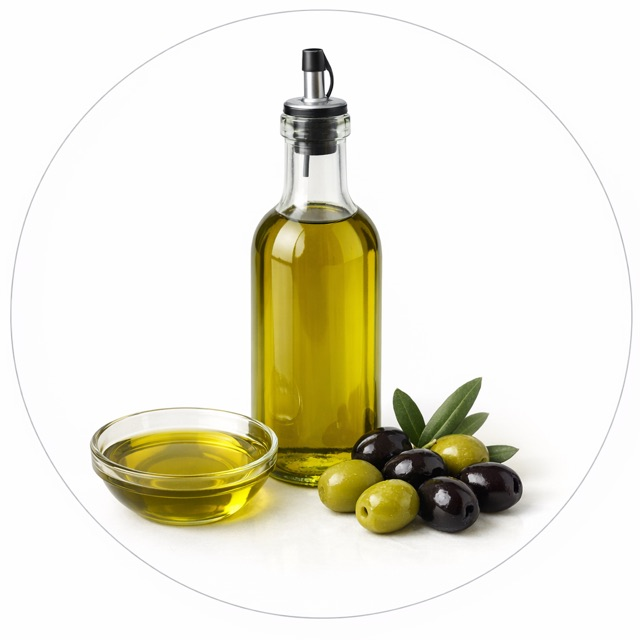
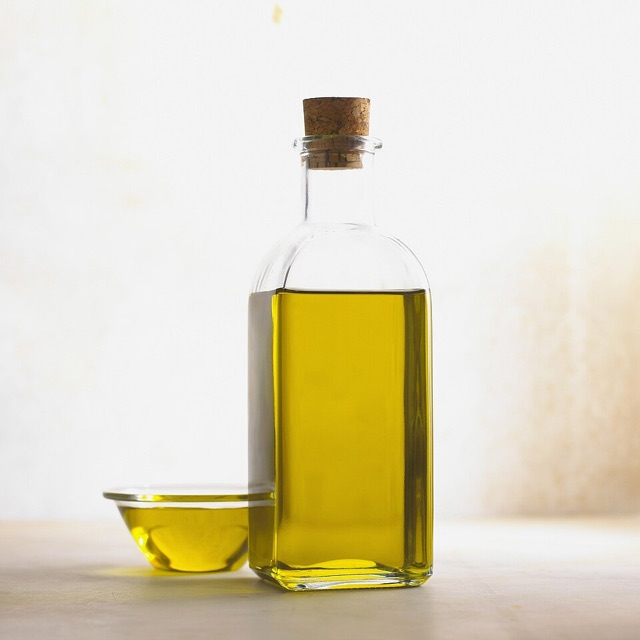
Replace circled olive oil image

diff --git a/docs/image-validation.md b/docs/image-validation.md
@@ -40,7 +40,7 @@ As of the 2026-05-23 optimization pass, 98 public food image sets were generated
 | Spinach | `assets/images/real/spinach.jpg` | Pass | Raw spinach leaves. |
 | Salmon | `assets/images/real/salmon.png` | Pass | Clean raw salmon fillet on a white background. |
 | Oats | `assets/images/real/oats.png` | Pass | Small mountain of rolled oats on a clean white background. |
-| Olive Oil | `assets/images/real/olive-oil.png` | Pass | Generated clean bottle-and-olives image; olives make the oil source identifiable in the circular crop. |
+| Olive Oil | `assets/images/real/olive-oil.jpg` | Pass | Clean bottle-and-dish photograph on a bright neutral background; replacement removes the embedded circular outline from both optimized variants. |
 | Walnuts | `assets/images/real/walnuts.png` | Pass | Generated product-style raw walnut image on a clean white background. |
 | Coconut Yogurt | `assets/images/real/coconut-yogurt.png` | Pass | Generated coconut yogurt image with a coconut piece in the yogurt on a clean white background. |
 | Sweet Potato | `assets/images/real/sweet-potato.png` | Pass | Raw sweet potato with cut pieces on a clean white background. |
